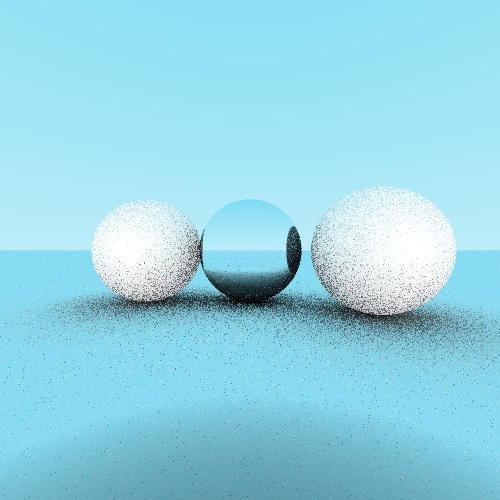
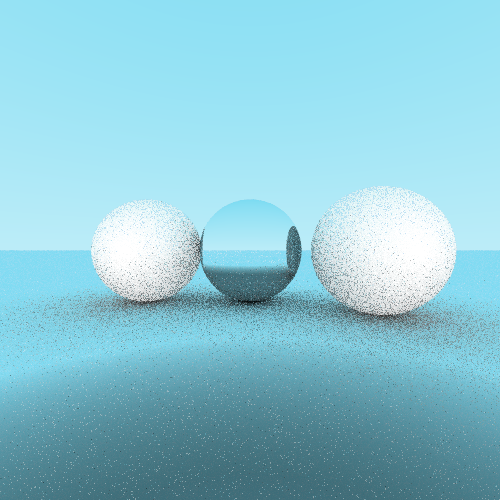
before cleanup

diff --git a/src/geometry.rs b/src/geometry.rs
@@ -7,7 +7,7 @@ pub struct HitInfo {
     pub reflection: Material
 }
 
-#[derive(Clone)]
+#[derive(Clone, PartialEq)]
 pub enum Material {
     Diffuse (),
     Reflective ()
@@ -15,7 +15,8 @@ pub enum Material {
 fn mix(col1: &Vec3, col2: &Vec3, mat: &Material, len: f32) -> Vec3 {
     match mat {
         Material::Diffuse() => {
-            col1 * &(col2 * (len/2.).max(0.3).min(1.))
+            let value = (len/1.3).min(1.);
+            col1.lerp(col2, value) * (len/3.).max(0.5).min(1.)
         }
 
         _ => col1.clone()
@@ -81,8 +82,7 @@ impl Object {
     }
     pub fn bounce(mut ray: Ray, objs: &Vec<Object>, max_bounce: u8) -> Pixel{
         let mut color: Vec3 = Vec3::new(1., 1., 1.);
-        let mut last_mat = Material::Diffuse();
-        for i in 0..max_bounce {
+        for _ in 0..max_bounce {
             let inter = Self::hit_all(&ray, &objs);
             match inter {
                 Some(hit) => {
@@ -90,17 +90,18 @@ impl Object {
                     if len < 0.001 {
                         break;
                     }
-                    last_mat = hit.reflection.clone();
+
                     color = mix(&color, &hit.color, &hit.reflection, len);
                     ray = scatter(&ray, &hit, &hit.reflection);
                 }
                 _ => {
                     let sky = Vec3::new(1., 1., 1.).lerp(&Vec3::new(0.478, 0.859, 0.949), (ray.dir.z + 1.) / 2.);
-                    if i == 0 {
+                    /*if i == 0 || mirror{
                         color = sky;
                     } else {
-                        color = mix(&sky, &color, &last_mat, 1000.);
-                    }
+                        color = mix(&color, &sky, &Material::Diffuse(), 1000.);
+                    }*/
+                    color = &color * &sky;
                     break;
                 }
             }
